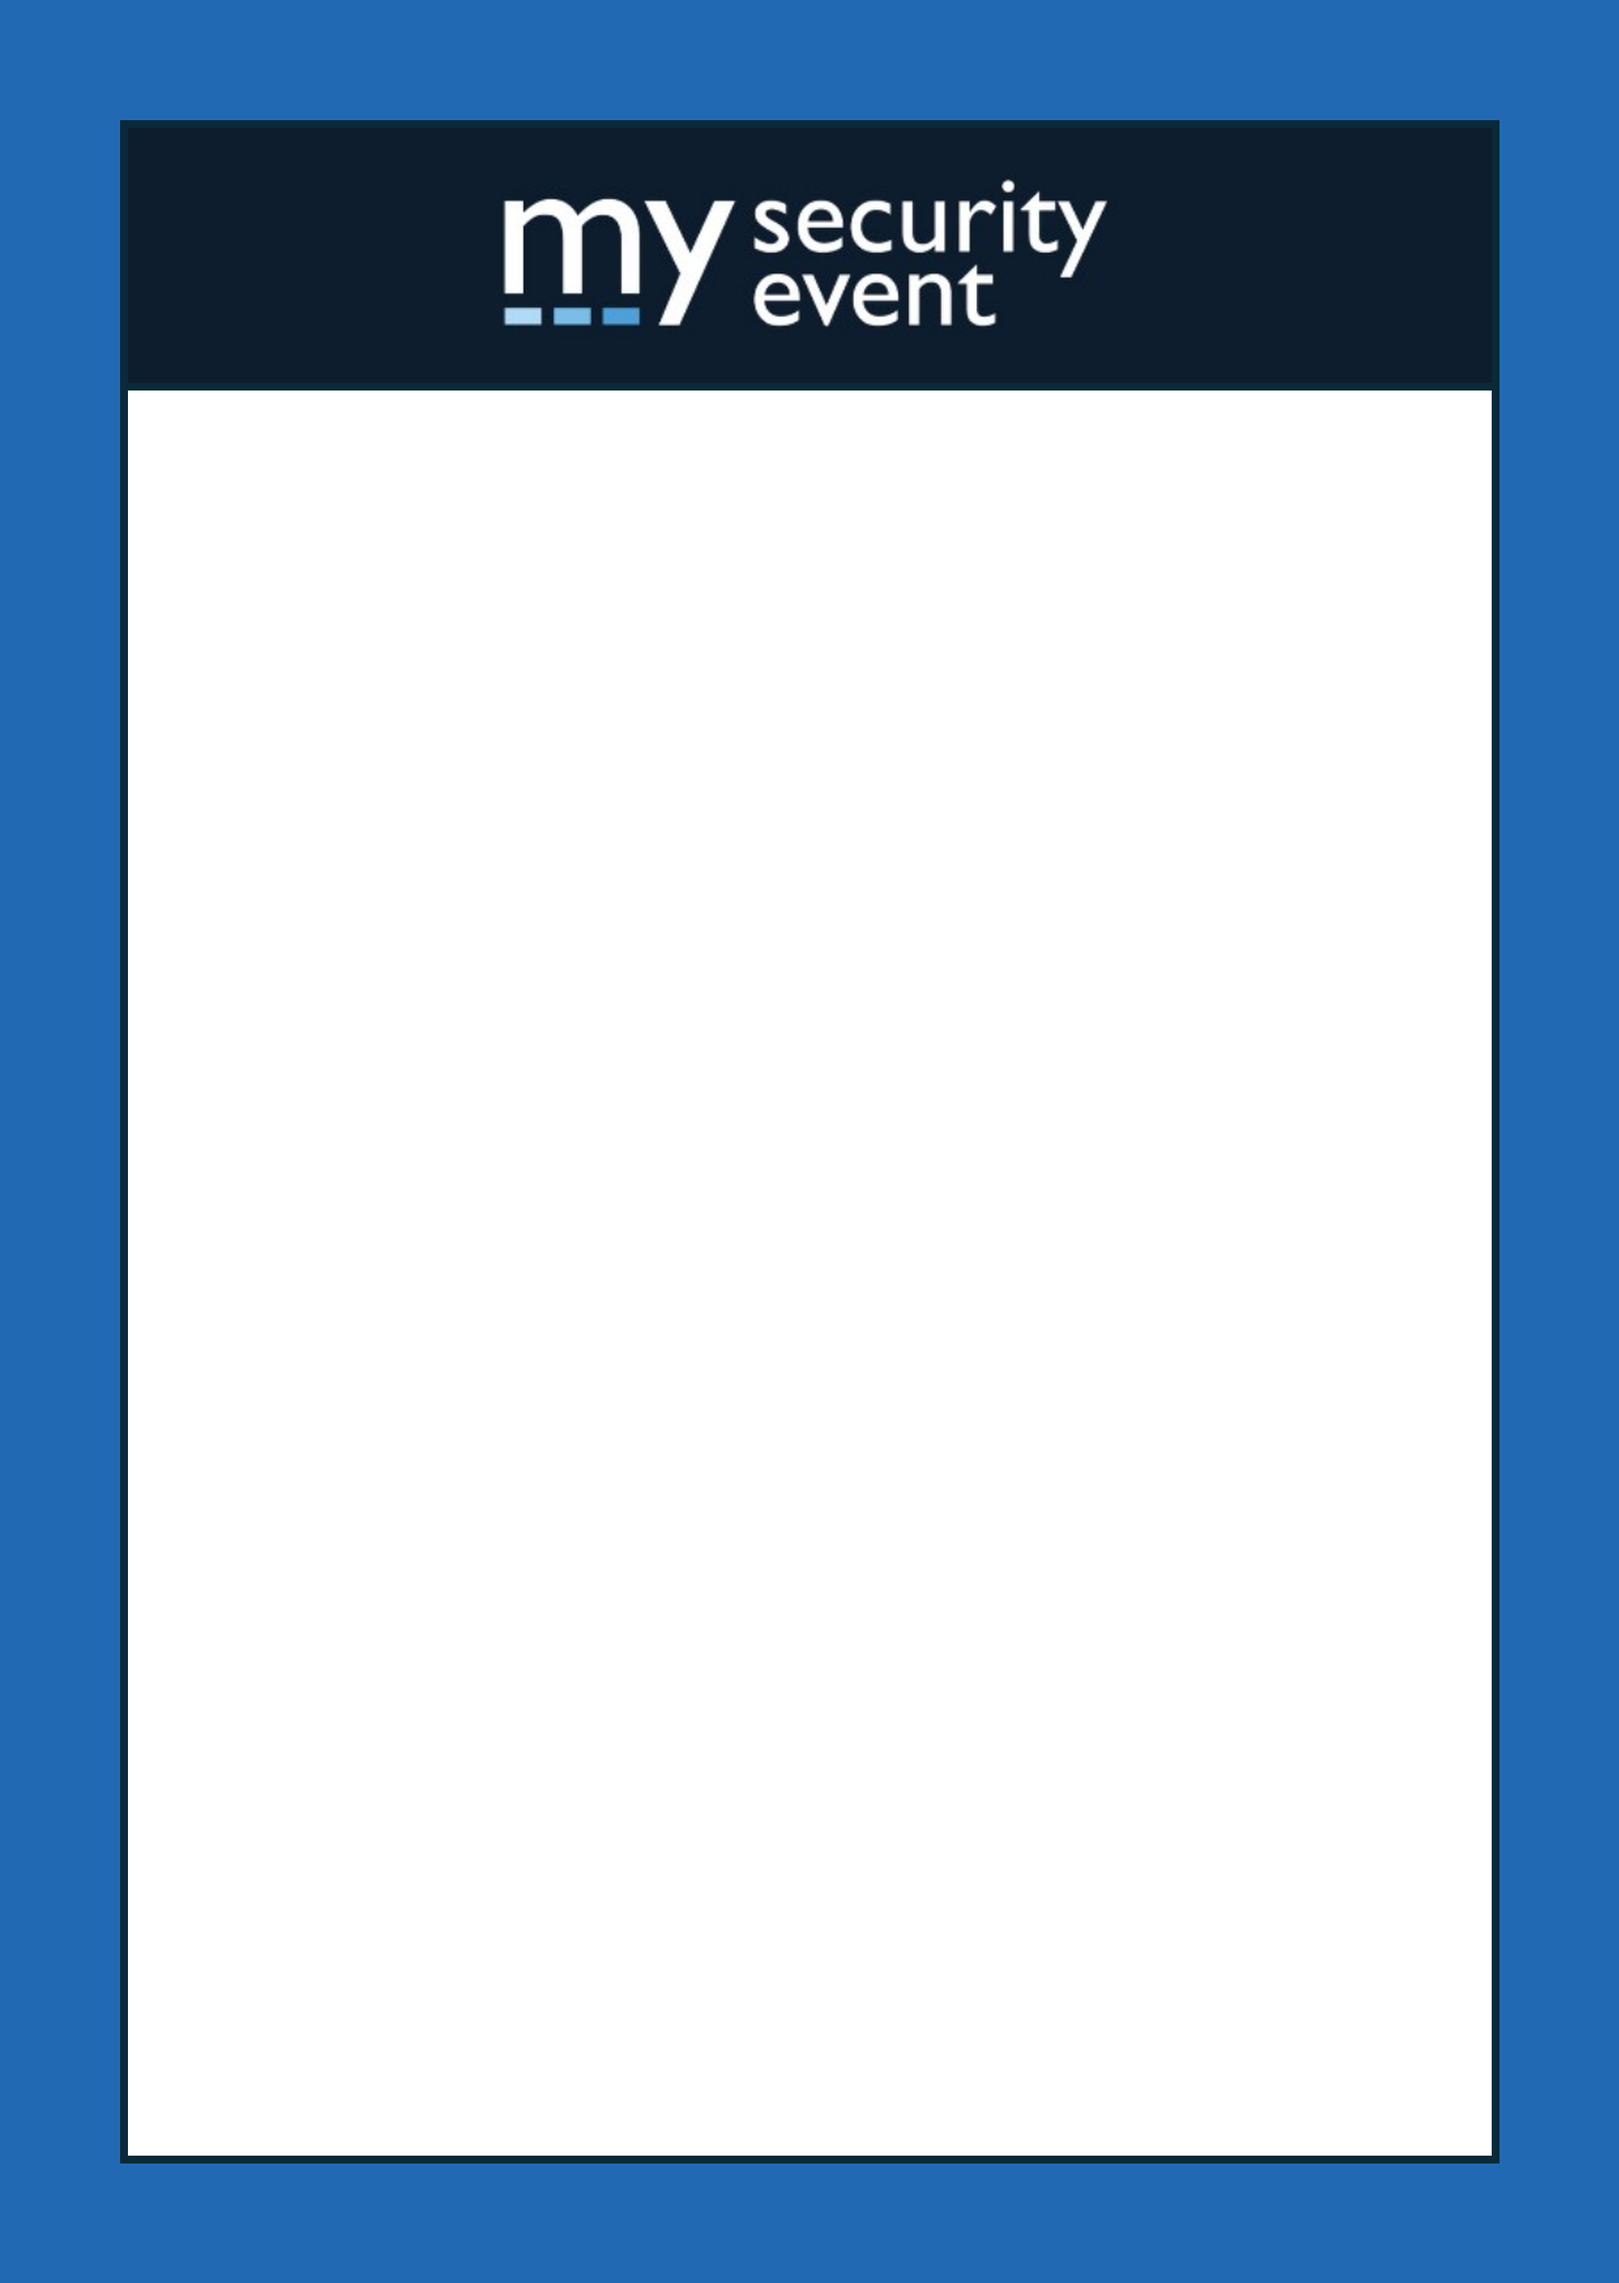
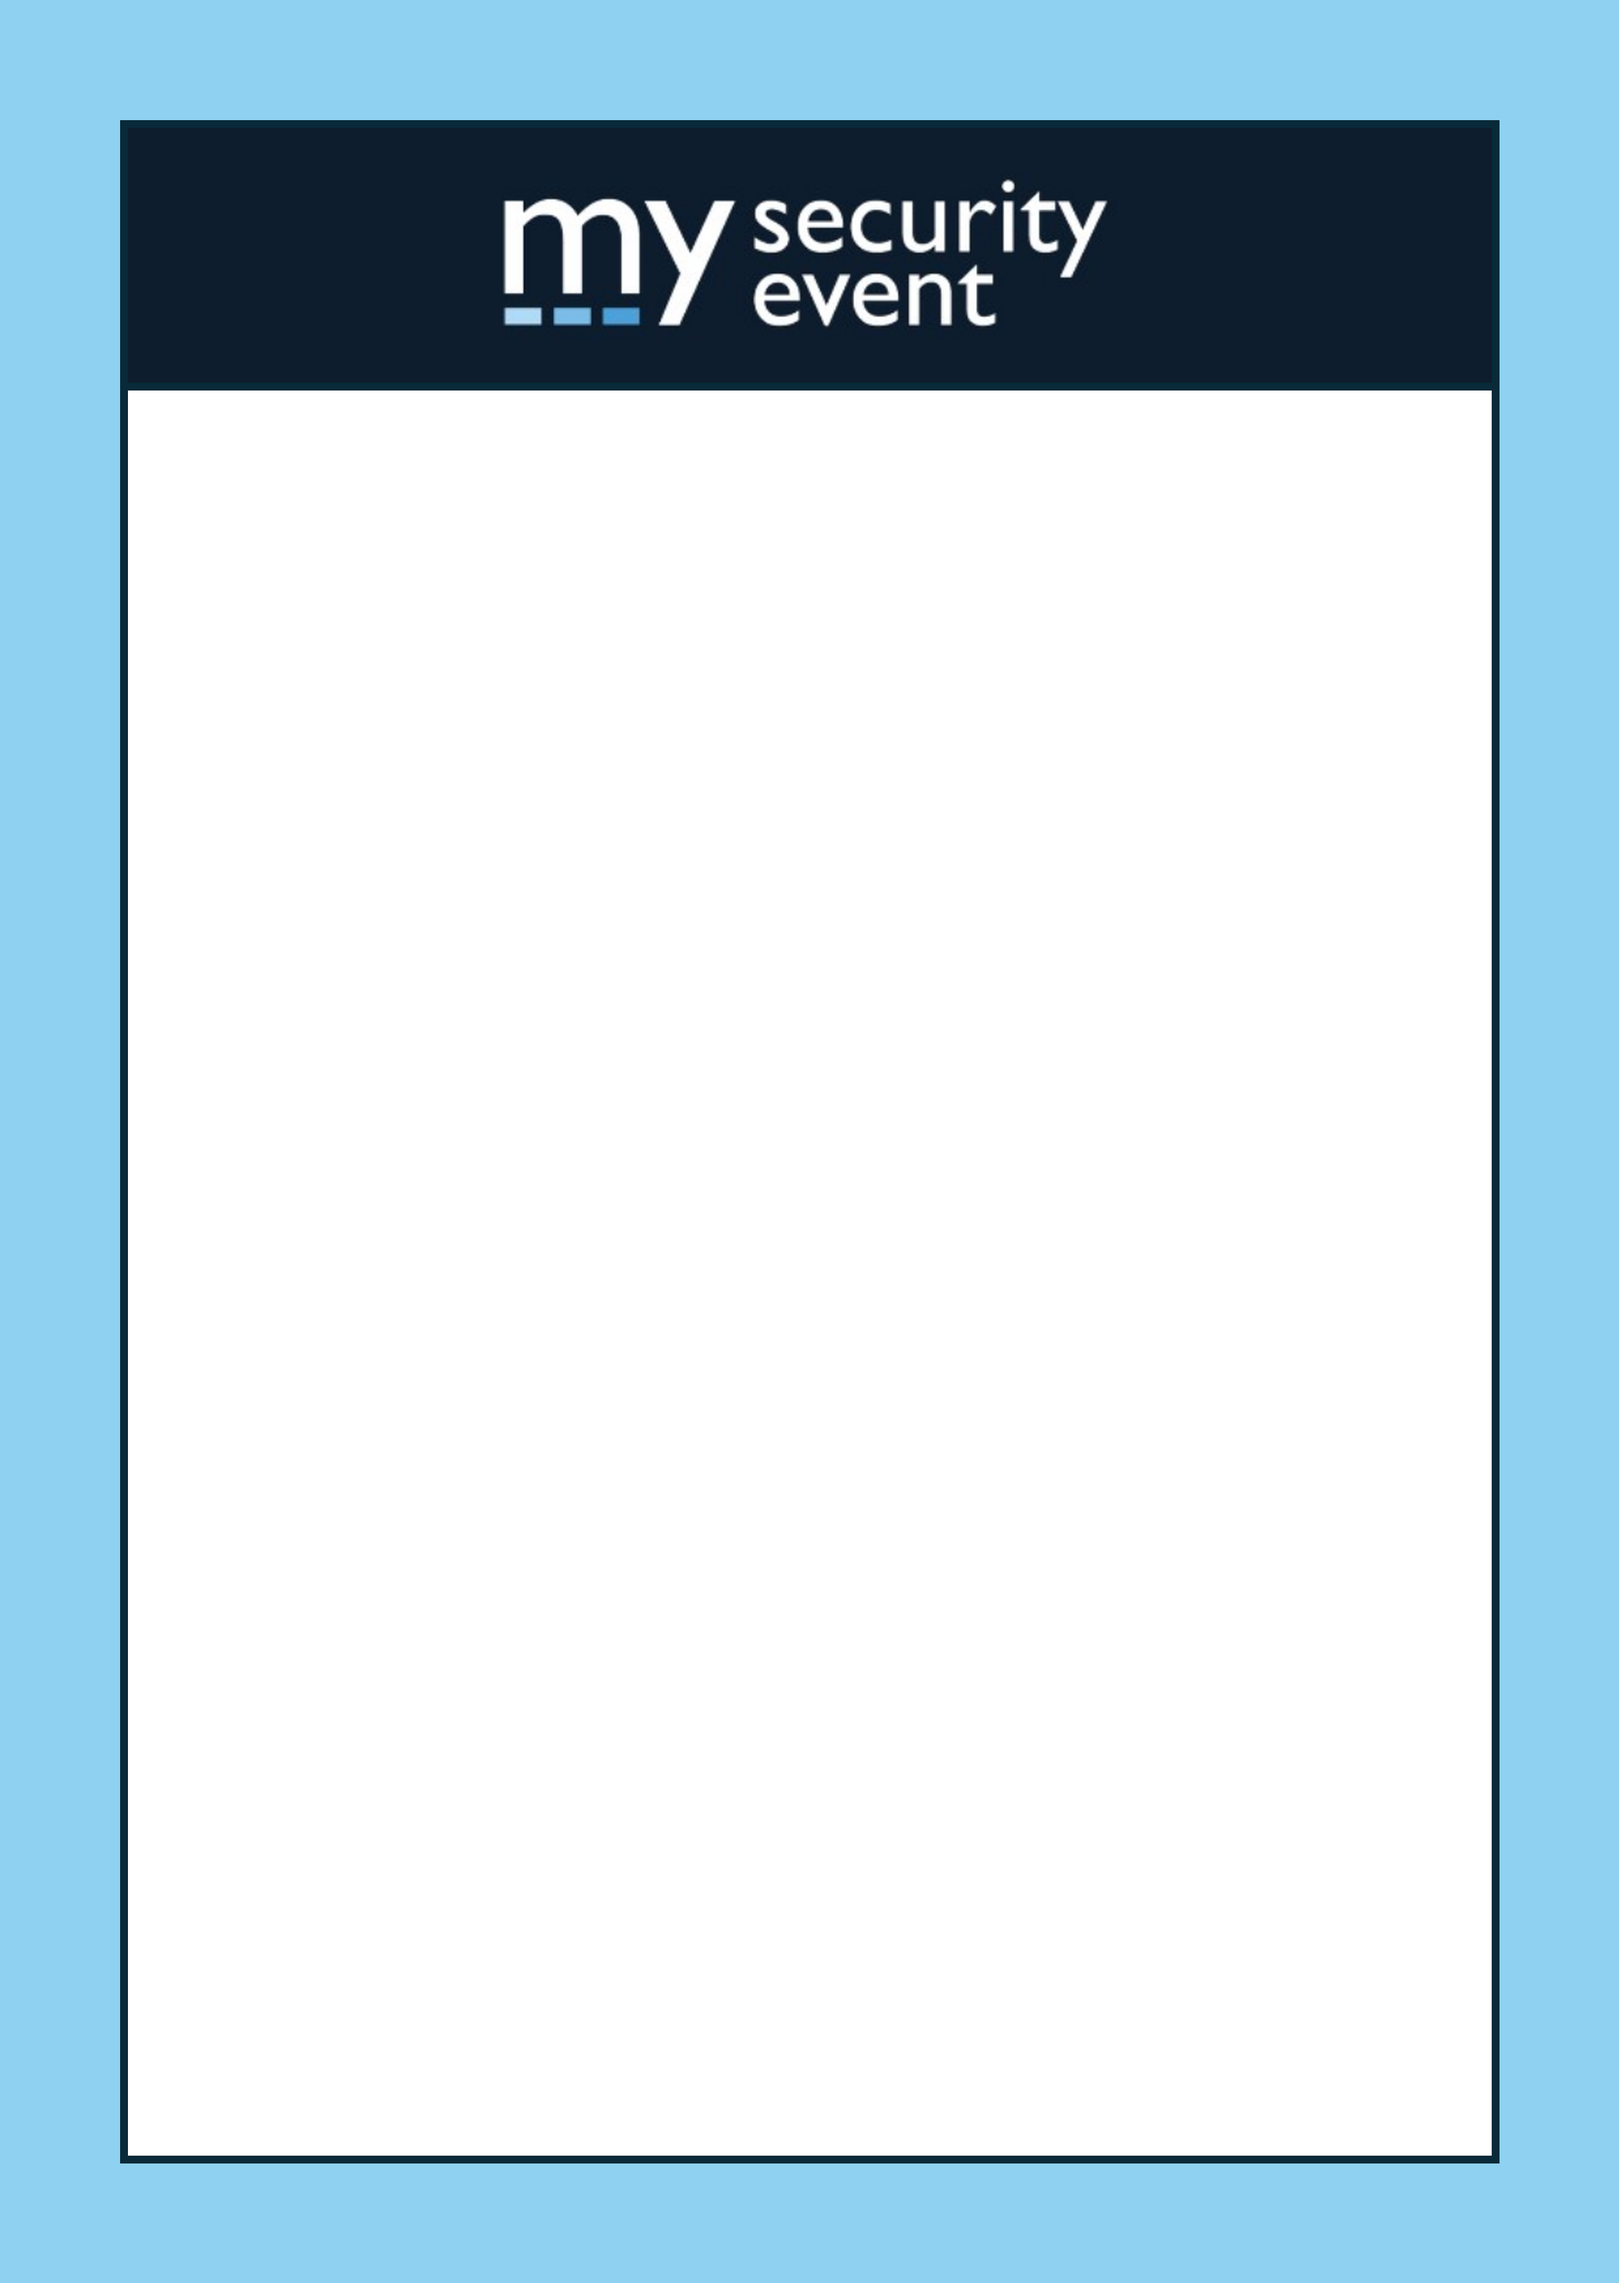
Update team and hostess badge colors

Changed region(s): [[0.0, 0.0, 1.0, 1.0]]

diff --git a/tests/test_badgegen_assets.py b/tests/test_badgegen_assets.py
@@ -21,6 +21,15 @@ BADGE_FILES = [
 EXPECTED_SIZE = (2480, 3496)
 EXPECTED_ROW_CHANGES = [184, 196, 2285, 2297]
 EXPECTED_COL_CHANGES = [184, 196, 586, 598, 3301, 3313]
+FRAME_COLORS = {
+    "tn.png": (102, 188, 68),
+    "vipref.png": (225, 195, 110),
+    "sponsor.png": (255, 255, 255),
+    "beo.png": (182, 88, 163),
+    "team.png": (0, 59, 92),
+    "hostess.png": (142, 209, 240),
+}
+INNER_ARTWORK_BOX = (184, 184, 2297, 3313)
 
 
 def _line_changes(get_pixel, length: int) -> list[int]:
@@ -35,6 +44,32 @@ def _line_changes(get_pixel, length: int) -> list[int]:
 
 
 class BadgeAssetGeometryTests(unittest.TestCase):
+    def test_category_frame_colors_are_correct(self) -> None:
+        width, height = EXPECTED_SIZE
+        frame_boxes = (
+            (0, 0, width, 184),
+            (0, 3313, width, height),
+            (0, 184, 184, 3313),
+            (2297, 184, width, 3313),
+        )
+        for name, color in FRAME_COLORS.items():
+            with self.subTest(asset=name), Image.open(ASSET_DIR / name) as image:
+                for box in frame_boxes:
+                    self.assertEqual(
+                        tuple((channel, channel) for channel in color),
+                        image.convert("RGB").crop(box).getextrema(),
+                    )
+
+    def test_category_colors_do_not_change_logo_or_inner_artwork(self) -> None:
+        with Image.open(ASSET_DIR / "sponsor.png") as reference:
+            expected = reference.convert("RGB").crop(INNER_ARTWORK_BOX).tobytes()
+        for name in BADGE_FILES:
+            with self.subTest(asset=name), Image.open(ASSET_DIR / name) as image:
+                self.assertEqual(
+                    expected,
+                    image.convert("RGB").crop(INNER_ARTWORK_BOX).tobytes(),
+                )
+
     def test_all_badge_assets_exist_with_expected_size_and_new_margins(self) -> None:
         for name in BADGE_FILES:
             with self.subTest(asset=name):

diff --git a/tests/test_badgegen_render_pdf.py b/tests/test_badgegen_render_pdf.py
@@ -621,15 +621,26 @@ class QrColorForCategoryTests(unittest.TestCase):
         self.assertNotEqual(c, _QR_COLOR_DEFAULT)
         self.assertEqual(c, _QR_COLOR_BY_CATEGORY["BEO"])
 
-    def test_team_gets_red(self):
+    def test_team_gets_dark_blue(self):
         c = _qr_color_for_category("Team", colored=True)
-        self.assertNotEqual(c, _QR_COLOR_DEFAULT)
+        self.assertEqual(c, rl_colors.HexColor("#003B5C"))
         self.assertEqual(c, _QR_COLOR_BY_CATEGORY["Team"])
 
     def test_hostess_gets_blue(self):
         c = _qr_color_for_category("Hostess", colored=True)
-        self.assertNotEqual(c, _QR_COLOR_DEFAULT)
+        self.assertEqual(c, rl_colors.HexColor("#216AB3"))
         self.assertEqual(c, _QR_COLOR_BY_CATEGORY["Hostess"])
+
+    def test_other_category_qr_colors_remain_unchanged(self):
+        expected = {
+            "TN": rl_colors.HexColor("#1a7a1a"),
+            "VIP/REF": rl_colors.HexColor("#B8860B"),
+            "Sponsor": rl_colors.black,
+            "BEO": rl_colors.HexColor("#660099"),
+        }
+        for category, color in expected.items():
+            with self.subTest(category=category):
+                self.assertEqual(color, _qr_color_for_category(category, colored=True))
 
     def test_beo_and_vip_different_colors(self):
         """BEO = violett, VIP/REF = gold — müssen unterschiedlich sein."""

diff --git a/badgegen/render_pdf.py b/badgegen/render_pdf.py
@@ -43,7 +43,7 @@ _QR_COLOR_BY_CATEGORY = {
     "VIP/REF": colors.HexColor("#B8860B"),  # dunkles Gold
     "Sponsor": colors.black,
     "BEO":     colors.HexColor("#660099"),  # dunkelviolett
-    "Team":    colors.HexColor("#cc0000"),  # dunkelrot
+    "Team":    colors.HexColor("#003B5C"),  # dunkelblau
     "Hostess": colors.HexColor("#216AB3"),  # dunkelblau
 }
 _QR_COLOR_DEFAULT = colors.black
